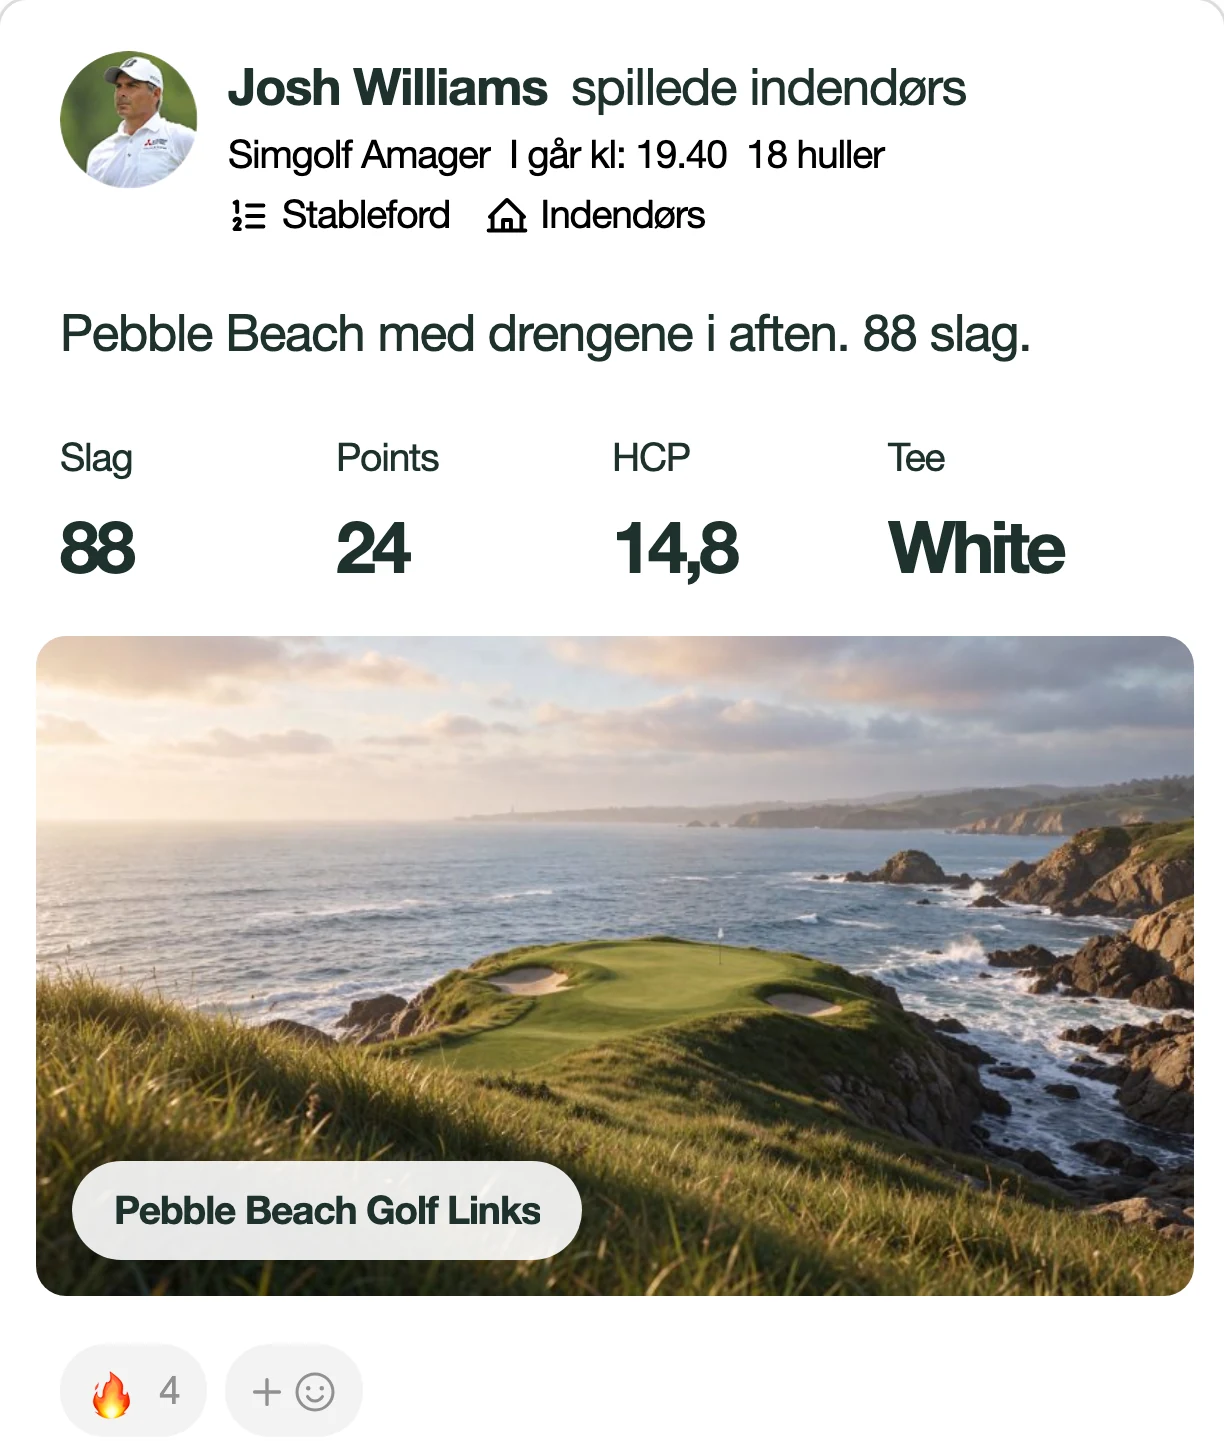
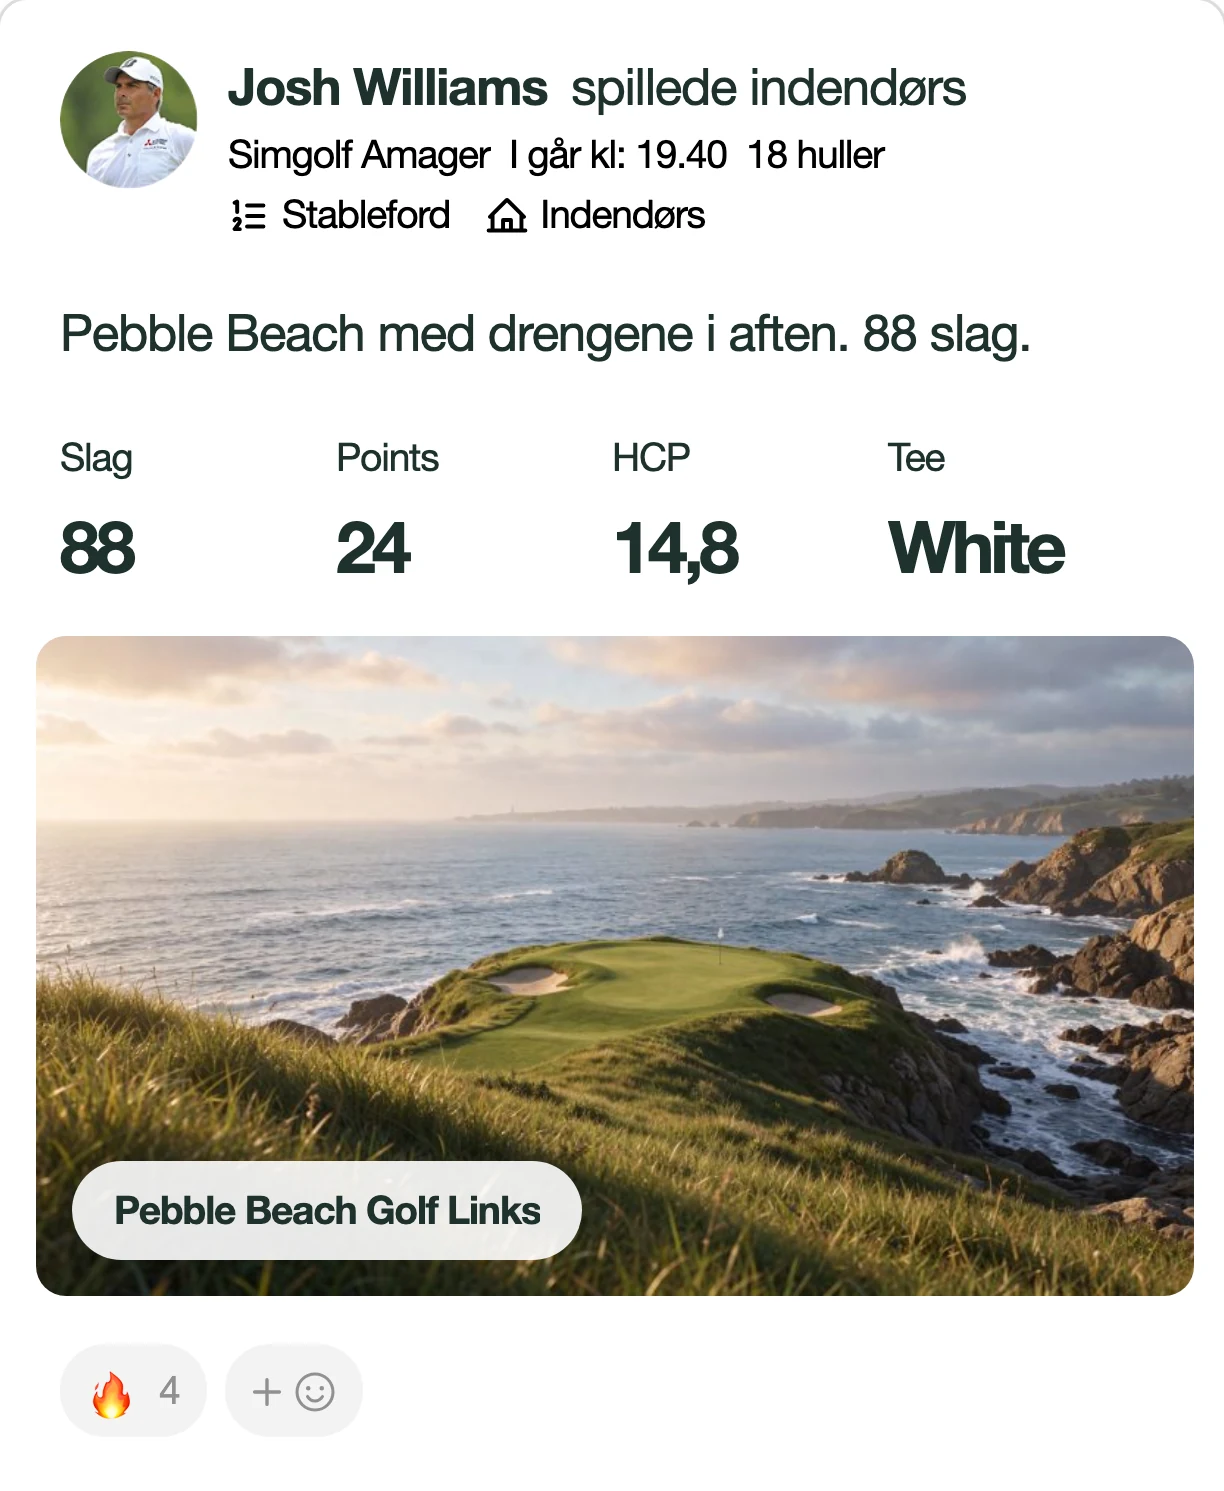
Indoor landing page: white space under the reactions on the feed post (Michel 27/11)

diff --git a/log-dine-runder-fra-golfsimulatoren.html b/log-dine-runder-fra-golfsimulatoren.html
@@ -152,7 +152,7 @@
           <span class="lp-float__in"><img loading="lazy" decoding="async" src="images/lp-in-raekker.webp" width="1290" height="1485" alt="After the photo of the simulator screen in Golfsocial: Hvilken række er dig?, Club de Golf Chapultepec, Individual Stableford, and one row per player with handicap, tee, points and strokes" /></span>
         </figure>
       <figure class="lp-float lp-float--near lp-in__post">
-          <span class="lp-float__in"><img loading="lazy" decoding="async" src="images/lp-in-opslag.webp" width="1224" height="1443" alt="An indoor round in the Golfsocial feed: Josh Williams spillede indendørs at Simgolf Amager, 88 strokes, 24 points, tee White, and a picture of Pebble Beach Golf Links" /></span>
+          <span class="lp-float__in"><img loading="lazy" decoding="async" src="images/lp-in-opslag.webp" width="1224" height="1491" alt="An indoor round in the Golfsocial feed: Josh Williams spillede indendørs at Simgolf Amager, 88 strokes, 24 points, tee White, and a picture of Pebble Beach Golf Links" /></span>
         </figure>
     </div>
   </section>
